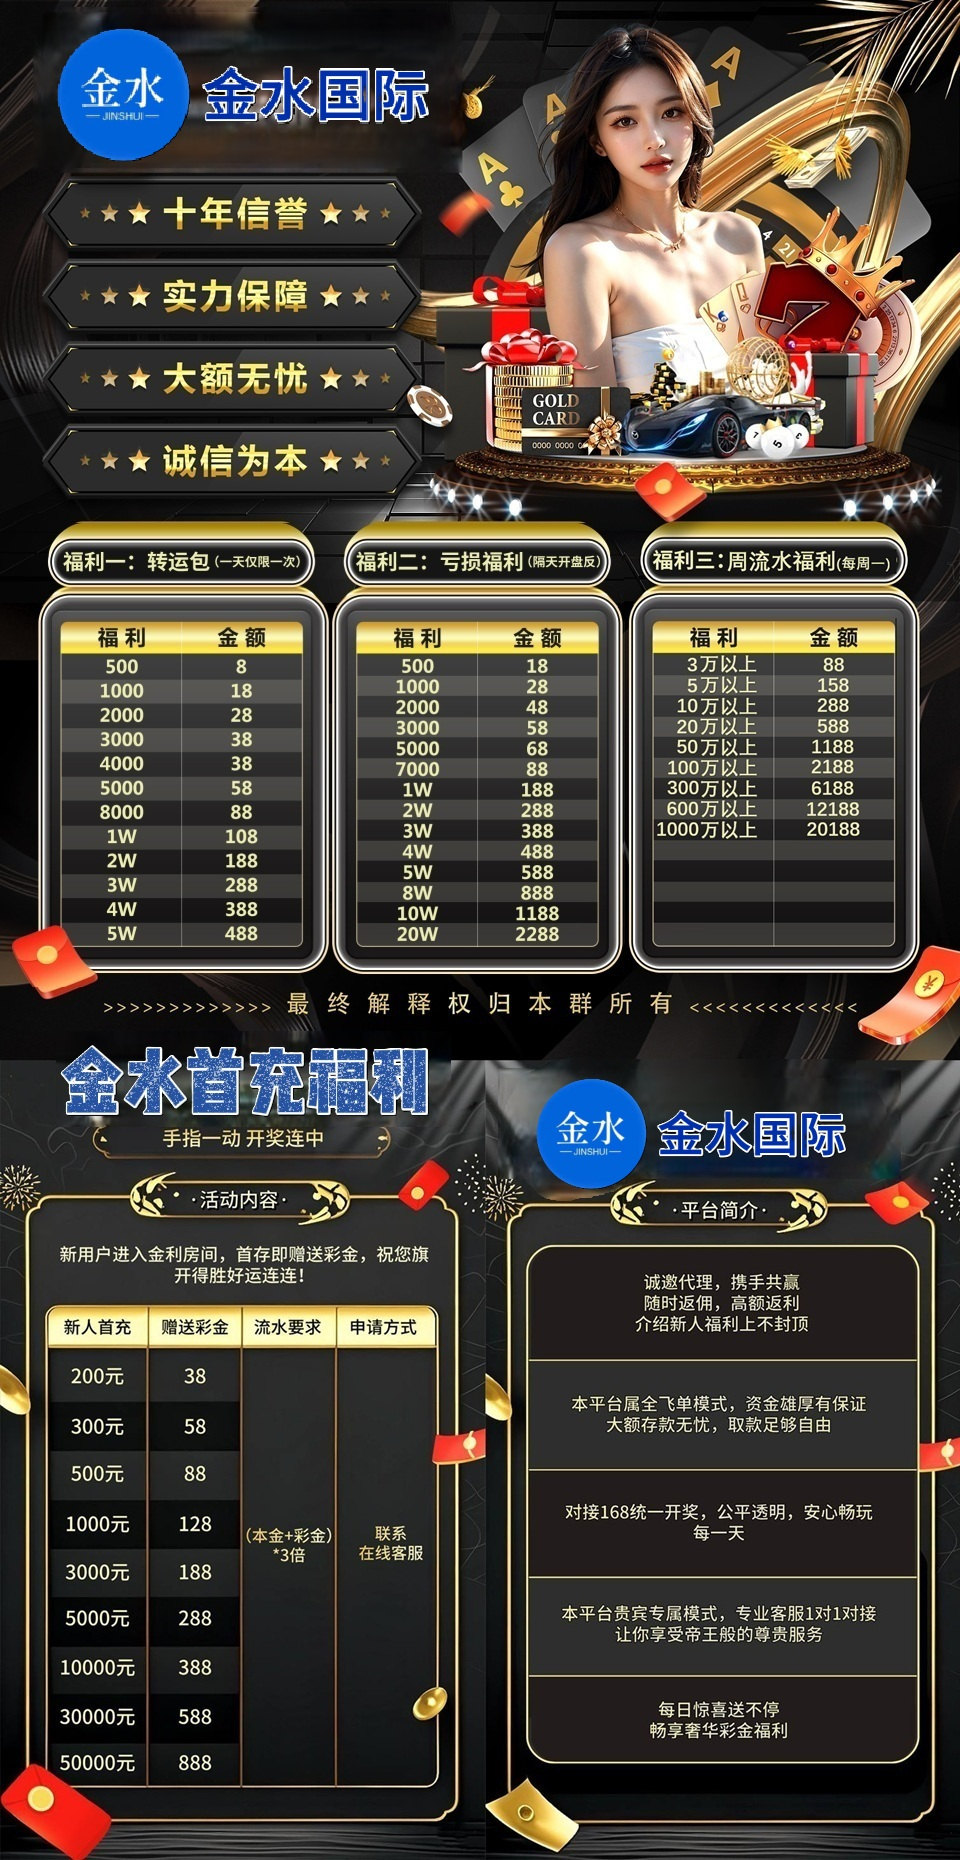
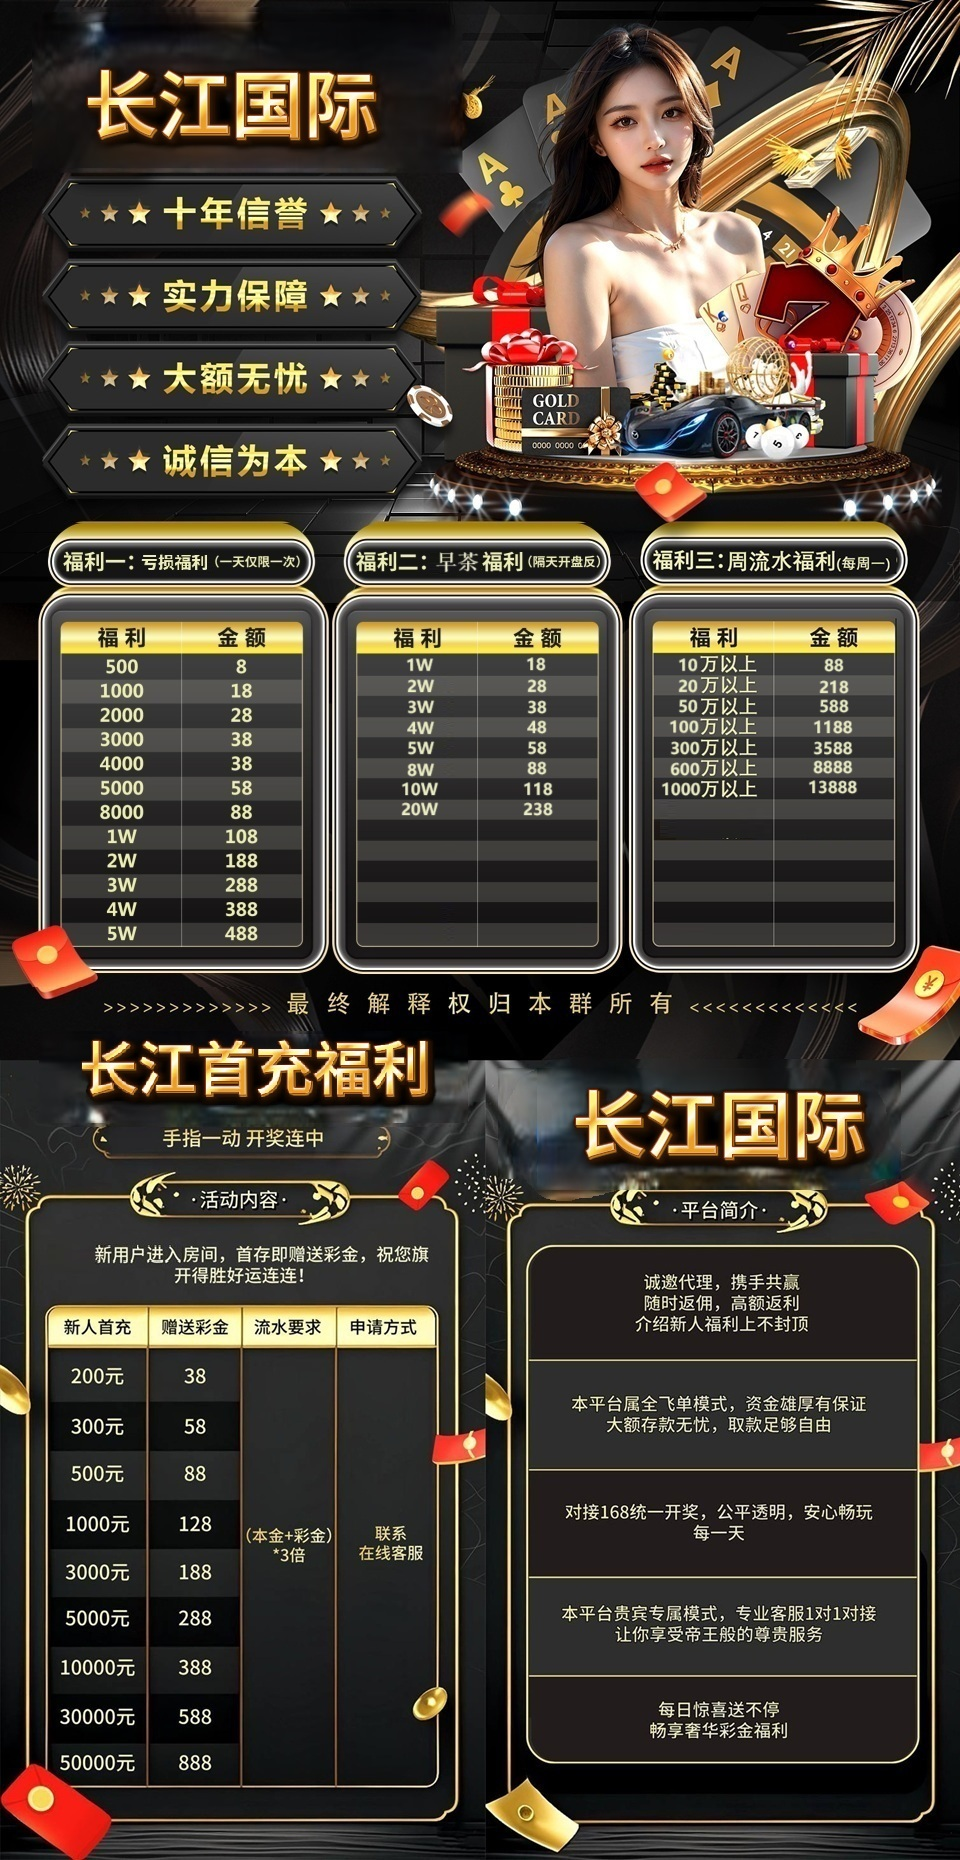
Add files via upload

diff --git a/index.html b/index.html
@@ -8,7 +8,7 @@
     <link rel="stylesheet" href="./skin/style_icon.css">
     <link rel="stylesheet" href="./skin/index.css">
     <script src="./skin/nutui.umd.4.3.8.js"></script>
-    <title>金水国际</title>
+    <title>长江国际</title>
     <meta name="keywords" content="">
     <meta name="description" content="">
     <link rel="icon" href="./skin/0544aa35b27947c89122b31183d19d04.png" type="image/png">
@@ -75,7 +75,7 @@
     <div id="app" class="page" data-v-app="">
         <div class="page-cont">
 
-            <img src="./images/img4.gif" class="responsive-img">
+            <img src="./images/img6.png" class="responsive-img">
             <img src="./skin/lb.png" class="responsive-img">
 
             <div class="cont-box" style="margin-top: -18px;">
@@ -85,7 +85,7 @@
                     <div class="msg-bar">
                         <div class="marquee-container">
                             <div class="marquee">
-                                欢迎来到金水国际，本平台已上押至官方，请各位老板放心娱乐，在本平台如发生不下分，卡回款，请及时联系本网页在线客服，会及时处理！
+                                欢迎来到长江国际，本平台已上押至官方，请各位老板放心娱乐，在本平台如发生不下分，卡回款，请及时联系本网页在线客服，会及时处理！
                             </div>
                         </div>
                     </div>
@@ -122,7 +122,7 @@
                                         </div>
                                         <div class="link">
                                         <div class="name">
-                                            房间: 393444
+                                            房间: 999579
                                         </div>
                                             <a href="javascript:;">
                           
@@ -139,7 +139,7 @@
                                         </div>
                                     </div>
                                     <a class="active" href="fl.html">
-                      <img src="./skin/img2.png" alt="">
+                      <img src="./skin/img2.gif" alt="">
                     </a>
                                 </div>
                                 <div class="label-list">
@@ -254,7 +254,7 @@
                                         </div>
                                     </div>
                                     <a class="active" href="fl.html">
-                      <img src="./skin/img2.png" alt="">
+                      <img src="./skin/img2.gif" alt="">
                     </a>
                                 </div>
                                 <div class="label-list">

diff --git a/fl.html b/fl.html
@@ -12,31 +12,49 @@
     <meta name="keywords" content="">
     <meta name="description" content="">
     <link rel="icon" href="../static/upload/image/20250417/1744888913542556.png" type="image/png">
-    <style>
-        html,
-        body {
-            margin: 0;
-            padding: 0;
-            font-size: 12px;
-        }
+<style>
+    html,
+    body {
+        margin: 0;
+        padding: 0;
+        font-size: 12px;
+        /* 确保html和body占满整个屏幕高度 */
+        height: 100%;
+    }
 
-        .myImg {
-            width: 100%;
-            height: auto;
-        }
+    body {
+        /* 设置背景图片，替换为你的图片路径 */
+        background-image: url("./images/bg.png");
+        /* 背景图不重复 */
+        background-repeat: no-repeat;
+        /* 背景图居中显示 */
+        background-position: center center;
+        /* 背景图自适应铺满全屏（可能裁剪边缘） */
+        background-size: cover;
+        /* 背景图固定，滚动页面时不跟随移动 */
+        background-attachment: fixed;
+    }
 
-        .head-box {
-            width: 100%;
-            height: 15.2666666667vw;
-            background: url("./images/img4.gif") center bottom no-repeat;
-            background-size: 100% auto;
-            display: flex;
-            justify-content: flex-start;
-            align-items: center;
-            padding: 0 2.1333333333vw;
-            box-sizing: border-box
-        }
-    </style>
+    .myImg {
+        width: 100%;
+        height: auto;
+    }
+
+    .head-box {
+        width: 100%;
+        height: 15.2666666667vw;
+        background: url("./images/img6.png") center bottom no-repeat;
+        background-size: 100% auto;
+        display: flex;
+        justify-content: flex-start;
+        align-items: center;
+        padding: 0 2.1333333333vw;
+        box-sizing: border-box;
+        /* 确保头部区域在背景图上方（若有透明度需求可调整z-index） */
+        position: relative;
+        z-index: 1;
+    }
+</style>
 </head>
 
 <body>

diff --git a/skin/index.css b/skin/index.css
@@ -358,13 +358,14 @@ a {
 }
 
 .page .cont-box .app-list .app-item .info-box .app-info .top-info .active {
-    width: 28.5333333333vw;
-    min-width: 28.5333333333vw;
-    height: 13.6vw;
+    width: 32.5333333333vw;
+    min-width: 32.5333333333vw;
+    height: 15.6vw;
     overflow: hidden;
     display: flex;
     justify-content: flex-end
 }
+
 
 .page .cont-box .app-list .app-item .info-box .app-info .top-info .active img {
     width: 100%
